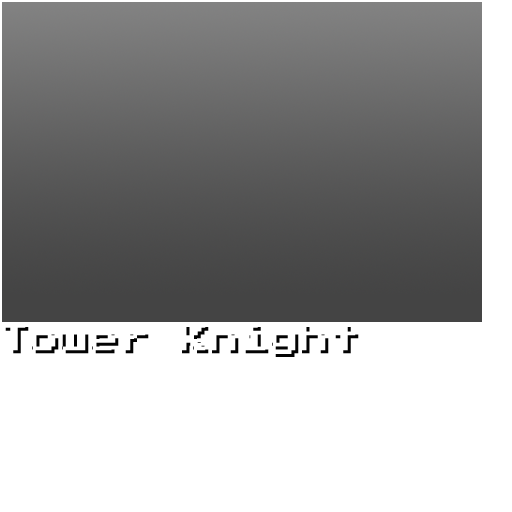
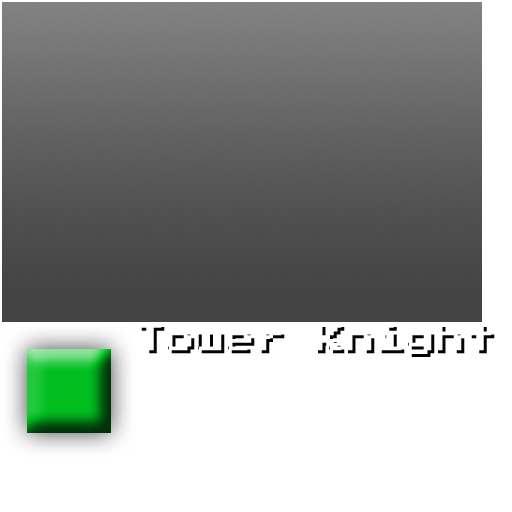
Add playButton

Changed region(s): [[0.0, 0.625, 0.9688, 0.875]]

diff --git a/Assets/Scripts/Scenes/TitleScene.cs b/Assets/Scripts/Scenes/TitleScene.cs
@@ -11,7 +11,7 @@ public class TitleScene : BaseScene
 		FSprite background = new FSprite ("background.png");
 		title = new FSprite ("titleImage.png");
 		
-		testButton = new JFButton ("titleImage.png");
+		testButton = new JFButton ("play.png");
 		
 		testButton.SignalRelease += HandleTestButtonSignalRelease;
 		
@@ -44,7 +44,7 @@ public class TitleScene : BaseScene
 
 	void HandleTestButtonSignalRelease (FButton obj)
 	{
-		AnimateOut(new TitleScene());
+		AnimateOut (new TitleScene ());
 		
 	}
 	
@@ -52,18 +52,18 @@ public class TitleScene : BaseScene
 	{
 		base.AnimateOut (nextScene);
 		
-		Go.killAllTweensWithTarget(title);
-		Go.killAllTweensWithTarget(testButton);
+		Go.killAllTweensWithTarget (title);
+		Go.killAllTweensWithTarget (testButton);
 		
-		TweenConfig animateOutTween = new TweenConfig()
+		TweenConfig animateOutTween = new TweenConfig ()
 			.setDelay (.3f)
 			.floatProp ("scale", 0)
-			.setEaseType(EaseType.Linear);
+			.setEaseType (EaseType.Linear);
 		
 		Go.to (title, 1.0f, animateOutTween);
 		animateOutTween
 			.setDelay (.5f)
-			.onComplete(HandleAnimateOutComplete);
+			.onComplete (HandleAnimateOutComplete);
 				
 		Go.to (testButton, 1.0f, animateOutTween);
 	}
